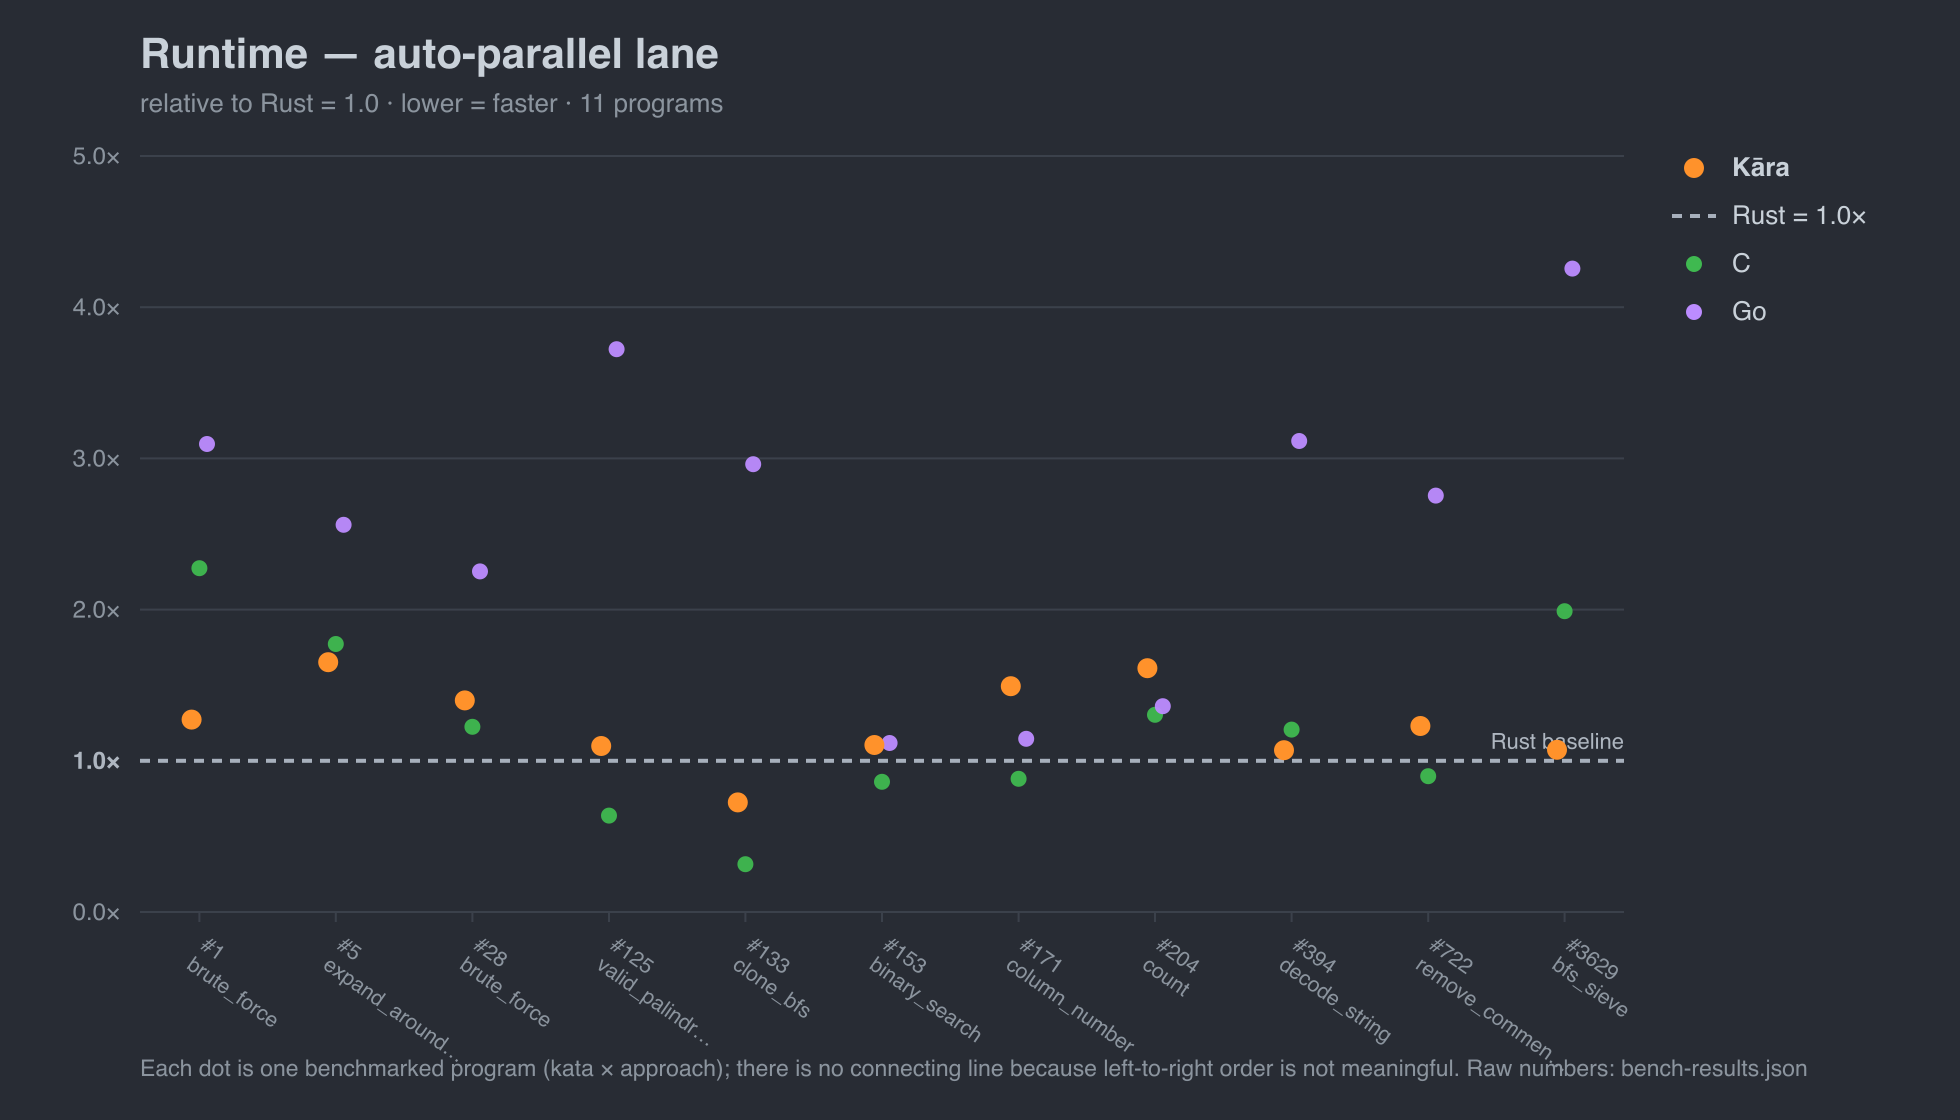
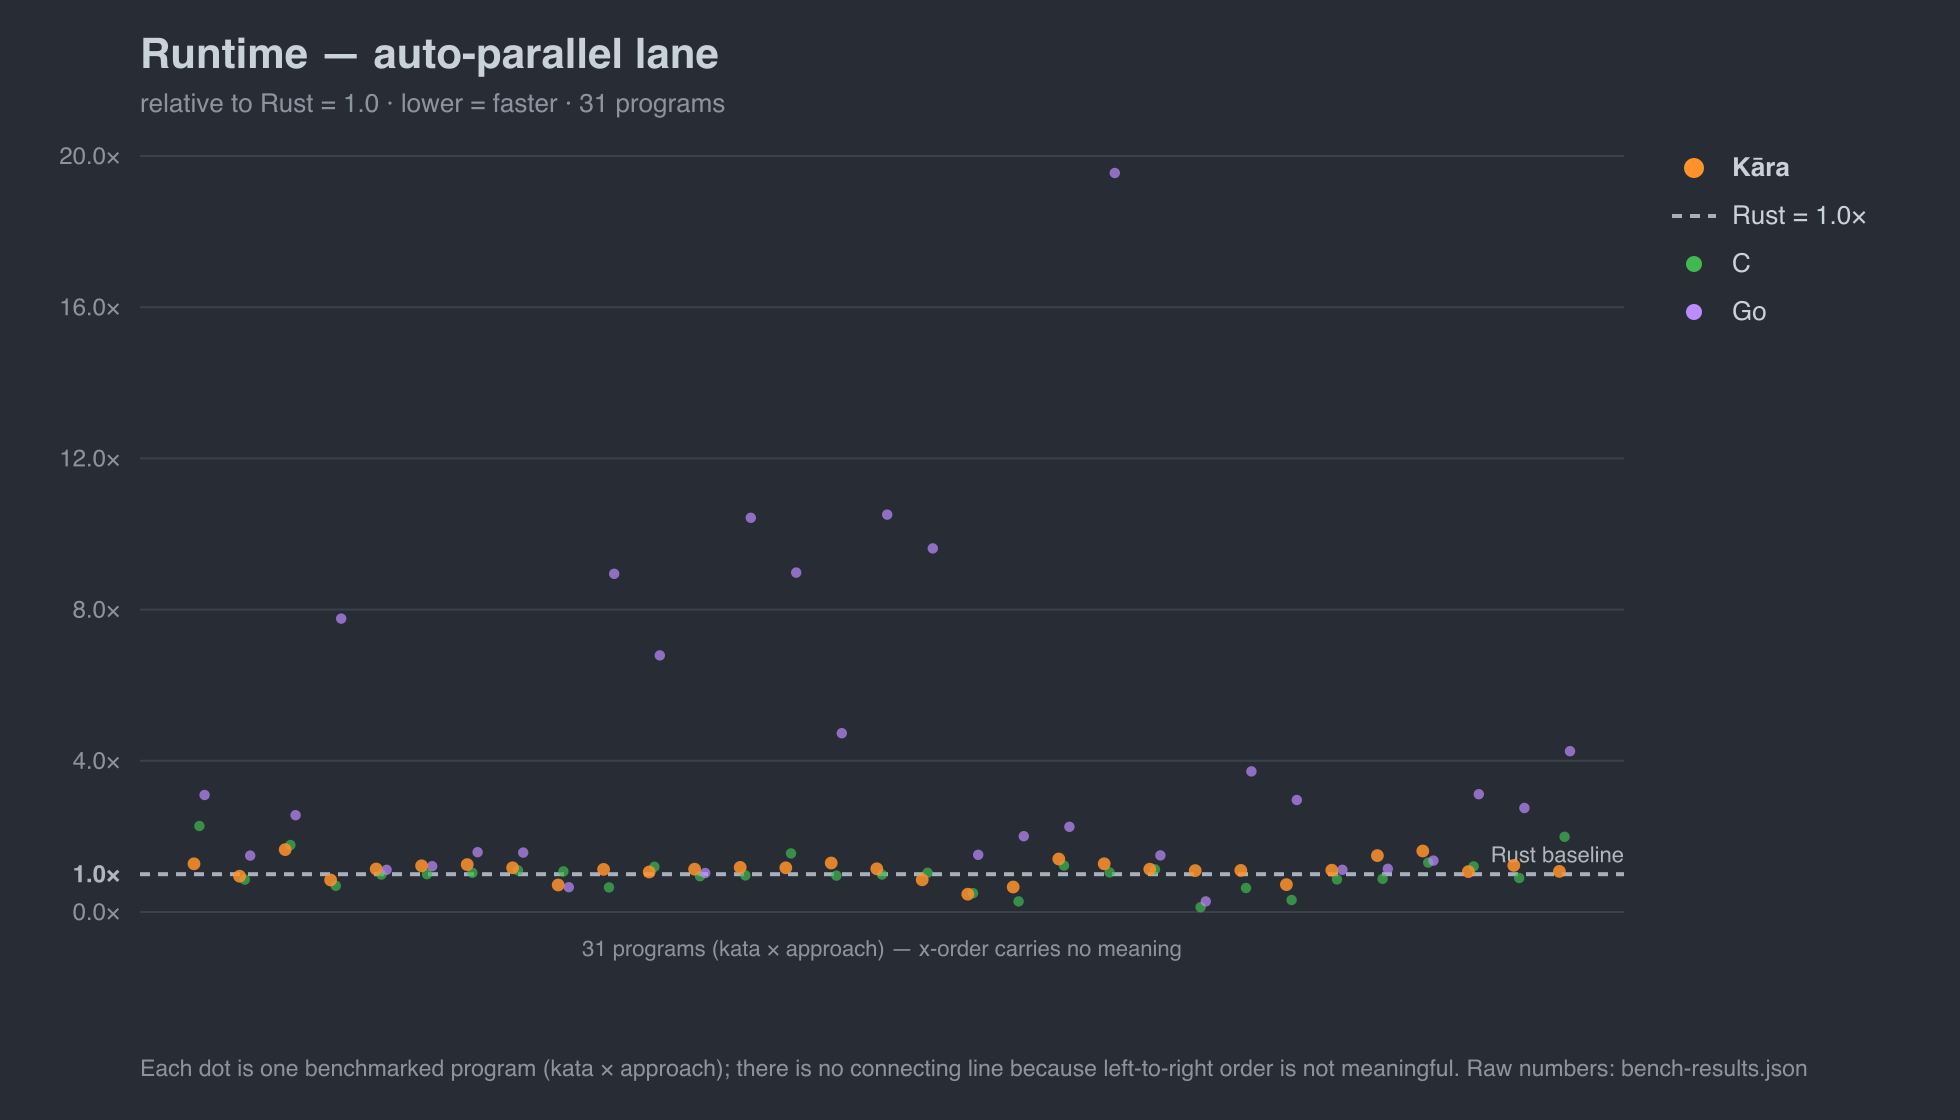
docs(readme): refresh parallel-lane chart + prose (11 → 31 par programs)
Mirror the regenerated runtime-par / runtime-seq PNGs from kara-katas (now
that 20 more auto-par katas ship a full Rust-rayon / Go / C-pthreads
comparator set) and rewrite the parallel-lane narrative to the honest
31-program result: kara auto-par at a median 1.13x of hand-tuned rayon,
faster than rayon on 7, beating Go goroutines on 24/31, edging the
raw-pthreads C floor on 9, trailing both on a few string/alloc kernels.

diff --git a/README.md b/README.md
@@ -328,11 +328,15 @@ program; lower is faster; everything relative to **Rust = 1.0**.
 
 ![Runtime, parallel lane — Kāra auto-par vs Rust rayon / Go / C-pthreads, relative to Rust](docs/assets/runtime-par.png)
 
-Across the eleven katas that currently ship the full parallel comparator set,
-Kāra's auto-par lands in the same band as hand-tuned `rayon` — ahead on one
-(#133 clone-graph), behind on ten (by at most 1.65×), and edging the raw-pthreads
-C floor on four — for **none** of the engineering cost. More points land
-automatically as parallel katas are added.
+Across the **31 programs** that currently ship the full parallel comparator set,
+Kāra's auto-par runs at a median **1.13× of hand-tuned `rayon`** (typically within
+~10–15%), is **faster than `rayon` outright on seven** (best #22 0.47×, #23, #11,
+#133), beats Go's goroutines on **24 of 31** — often by multiples, as dispatch
+overhead swamps fine-grained reductions — and **edges or matches the raw-pthreads
+C floor on nine** of the allocation-heavy ones, for **none** of the engineering
+cost. It is not uniformly fastest — a few string-/allocation-churn kernels trail
+both C and Go (worst #71 simplify). More points land automatically as parallel
+katas are added.
 
 The intra-Kāra view of the same effect (same source, auto-par vs its own
 sequential lane) runs **3.7×** on a ~100 ns kernel up to **13.4×** on a heavier